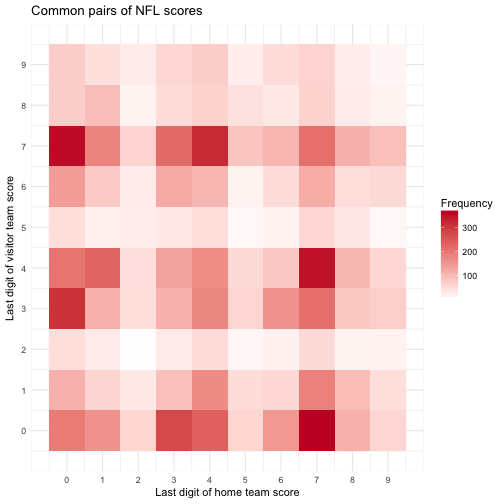
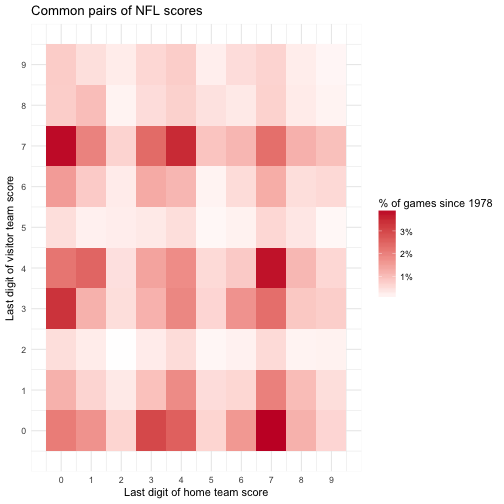
Edits to post

diff --git a/_posts/2018-02-04-super-bowl-squares.md b/_posts/2018-02-04-super-bowl-squares.md
@@ -116,16 +116,18 @@ It's likely that each team's strategy influences the other (and both may be infl
 games %>%
   count(home_digit = home_score %% 10,
         visitors_digit = visitors_score %% 10) %>%
-  ggplot(aes(home_digit, visitors_digit, fill = n)) +
+  mutate(percent = n / sum(n)) %>%
+  ggplot(aes(home_digit, visitors_digit, fill = percent)) +
   geom_tile() +
   scale_x_continuous(breaks = 0:9) +
   scale_y_continuous(breaks = 0:9) +
-  scale_fill_gradient2(high = "#C8102E", low = "white") +
+  scale_fill_gradient2(high = "#C8102E", low = "white",
+                       labels = scales::percent_format()) +
   theme_minimal() +
   labs(x = "Last digit of home team score",
        y = "Last digit of visitor team score",
        title = "Common pairs of NFL scores",
-       fill = "Frequency")
+       fill = "% of games since 1978")
 {% endhighlight %}
 
 ![center](/figs/2018-02-04-super-bowl-squares/unnamed-chunk-4-1.png)
@@ -162,7 +164,7 @@ We could consider filtering for only a subset of the data, such as games since 1
 
 ### Conclusion
 
-The pairs I'd bet on are **7-0**/**0-7** or **4-7**/**7-4**, the most common pairings of digits. If those are taken I'd generally avoid pairs of the same digit, since the lack of ties make them unusually uncommon (last year's Super Bowl game was the first to ever go into overtime, and there has never been a tied score).
+The pairs I'd bet on are **7-0**/**0-7** or **4-7**/**7-4**, the most common pairings of digits. (Though the chance of winning with each is still around 3%, not much higher than winning a [roulette spin](https://en.wikipedia.org/wiki/Roulette)). If those are taken I'd generally avoid pairs of the same digit, since the lack of ties make them unusually uncommon (last year's Super Bowl game was the first to ever go into overtime, and there has never been a tied score).
 
 In a more sophisticated model we'd consider rates within each team, and possibly incorporate the Vegas odds (a winning team's score distribution is different than a losing team). I might try that for Super Bowl LIII next year.
 
